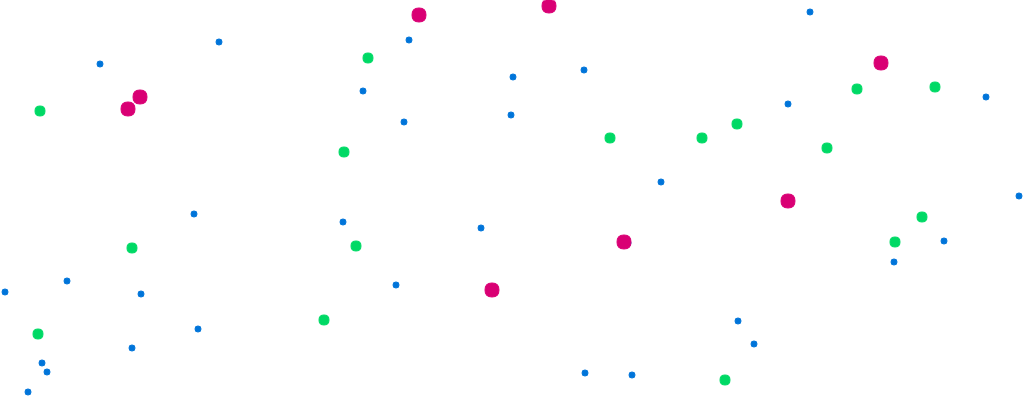
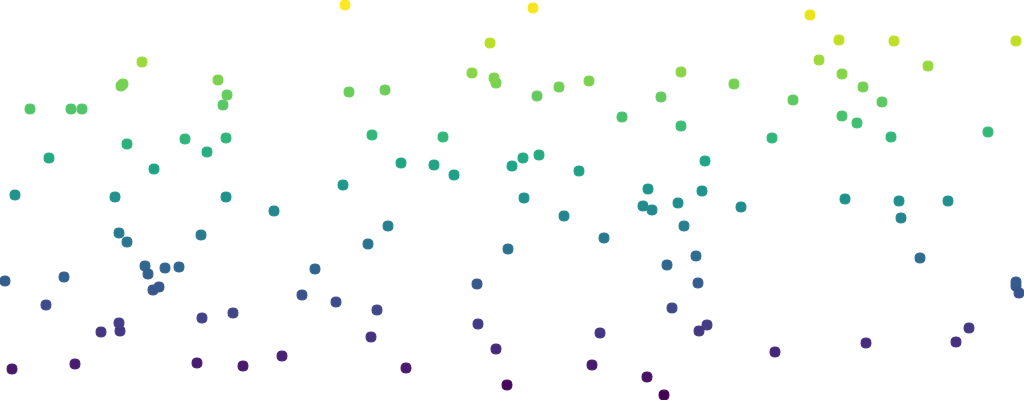
fully functioning Viridis

diff --git a/_examples/scatter/main.go b/_examples/scatter/main.go
@@ -7,9 +7,15 @@ import (
 	_ "net/http/pprof"
 
 	"github.com/wcharczuk/go-chart"
+	"github.com/wcharczuk/go-chart/drawing"
 )
 
 func drawChart(res http.ResponseWriter, req *http.Request) {
+
+	viridisByY := func(xr, yr chart.Range, x, y float64) drawing.Color {
+		return chart.Viridis(y, yr.GetMin(), yr.GetMax())
+	}
+
 	graph := chart.Chart{
 		Series: []chart.Series{
 			chart.ContinuousSeries{
@@ -17,7 +23,7 @@ func drawChart(res http.ResponseWriter, req *http.Request) {
 					Show:             true,
 					StrokeWidth:      chart.Disabled,
 					DotWidth:         5,
-					DotColorProvider: chart.Jet,
+					DotColorProvider: viridisByY,
 				},
 				XValues: chart.Sequence.Random(128, 1024),
 				YValues: chart.Sequence.Random(128, 1024),

diff --git a/value_provider.go b/value_provider.go
@@ -39,5 +39,8 @@ type FullBoundedValueProvider interface {
 // SizeProvider is a provider for integer size.
 type SizeProvider func(xrange, yrange Range, x, y float64) float64
 
-// ColorProvider is a provider for dot size.
-type ColorProvider func(xrange, yrange Range, x, y float64) drawing.Color
+// ColorProvider is a general provider for color ranges based on values.
+type ColorProvider func(v, vmin, vmax float64) drawing.Color
+
+// DotColorProvider is a provider for dot color.
+type DotColorProvider func(xrange, yrange Range, x, y float64) drawing.Color

diff --git a/jet.go b/jet.go
@@ -3,11 +3,11 @@ package chart
 import "github.com/wcharczuk/go-chart/drawing"
 
 // Jet is a color map provider based on matlab's jet color map.
-func Jet(xr, yr Range, x, y float64) drawing.Color {
-	return getJetColour(y, yr.GetMin(), yr.GetMax())
+func JetByY(xr, yr Range, x, y float64) drawing.Color {
+	return Jet(y, yr.GetMin(), yr.GetMax())
 }
 
-func getJetColour(v, vmin, vmax float64) drawing.Color {
+func Jet(v, vmin, vmax float64) drawing.Color {
 	c := drawing.Color{R: 0xff, G: 0xff, B: 0xff, A: 0xff} // white
 	var dv float64
 

diff --git a/_examples/basic/main.go b/_examples/basic/main.go
@@ -26,8 +26,8 @@ func drawChartWide(res http.ResponseWriter, req *http.Request) {
 		Width: 1920, //this overrides the default.
 		Series: []chart.Series{
 			chart.ContinuousSeries{
-				XValues: []float64{1.0, 2.0, 3.0, 4.0, 5.0},
-				YValues: []float64{1.0, 2.0, 3.0, 4.0, 5.0},
+				XValues: []float64{1.0, 2.0, 3.0, 4.0},
+				YValues: []float64{1.0, 2.0, 3.0, 4.0},
 			},
 		},
 	}

diff --git a/viridis.go b/viridis.go
@@ -262,8 +262,8 @@ var viridisColors = [256]drawing.Color{
 }
 
 // Viridis creates a color map provider.
-func Viridis(xr, yr Range, x, y float64) drawing.Color {
-	normalized := (y - yr.GetMin()) / yr.GetDelta()
+func Viridis(v, vmin, vmax float64) drawing.Color {
+	normalized := (v - vmin) / (vmax - vmin)
 	index := uint8(normalized * 255)
 	return viridisColors[index]
 }

diff --git a/style.go b/style.go
@@ -46,7 +46,7 @@ type Style struct {
 	DotWidth float64
 
 	DotWidthProvider SizeProvider
-	DotColorProvider ColorProvider
+	DotColorProvider DotColorProvider
 
 	FillColor drawing.Color
 
